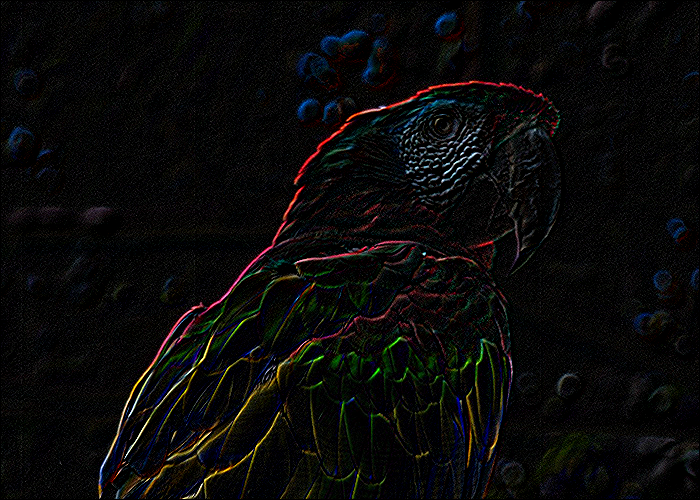
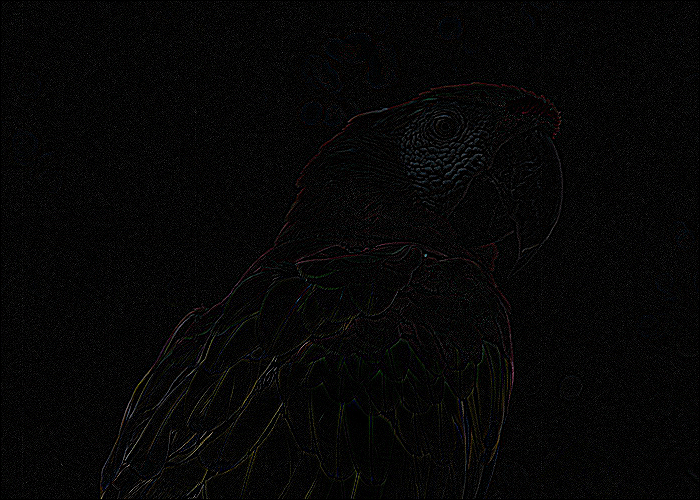
update

diff --git a/cs-2/01-image-processing/kernel/solved.py b/cs-2/01-image-processing/kernel/solved.py
@@ -19,7 +19,7 @@ def processKernel(im, kernel, outputName):
 
             for ky in [-1, 0, 1]:
                 for kx in [-1, 0, 1]:
-                    factor = kernel[ky][kx]
+                    factor = kernel[ky + 1][kx + 1]
                     (r, g, b) = im.getpixel((x + kx, y + ky))
 
                     newR += r * factor
